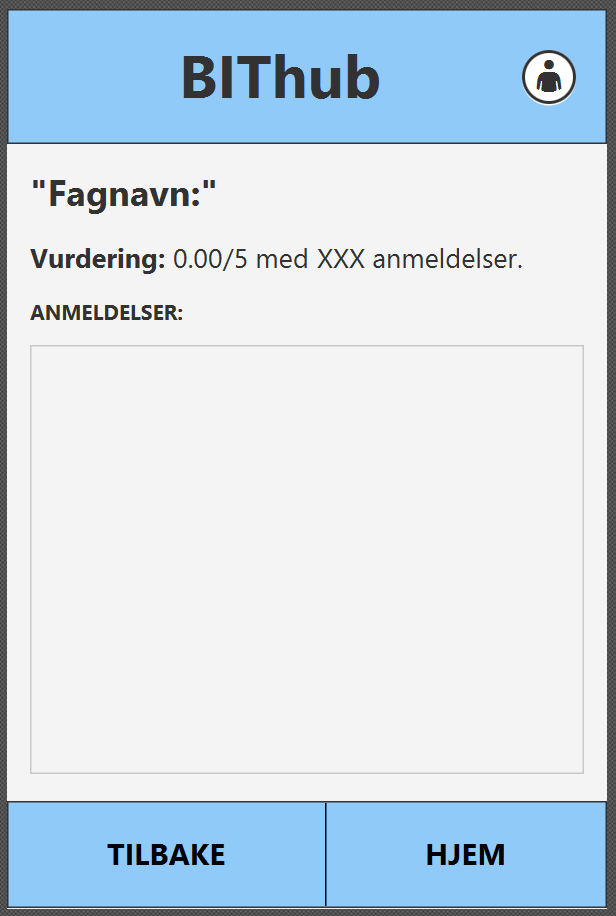
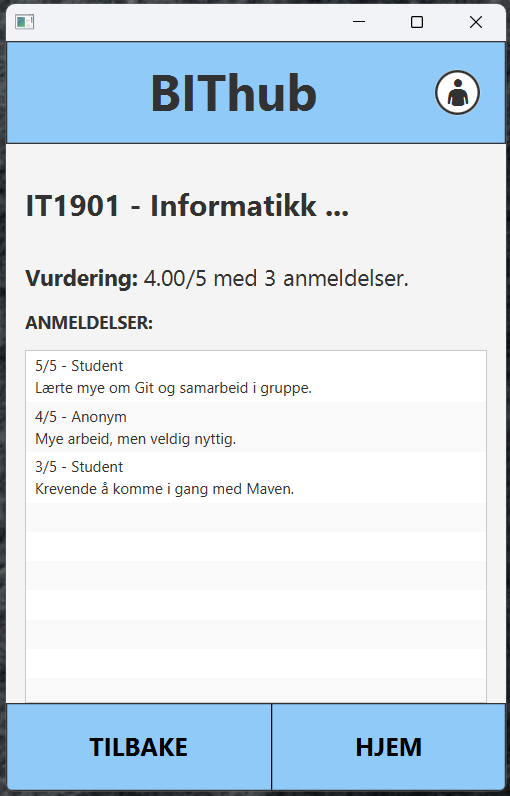
Oppdater release2.md med lesing og eksempeldata
Beskriver lesing av anmeldelser, fyller inn testdekningen og fjerner
den doble bildeseksjonen. Legger til eksempeldata med instruksjoner,
nytt bilde av lesesiden og to nye bilder tatt med eksempeldataene.

ref #121

Changed region(s): [[0.0, 0.0, 1.0, 1.0], [0.0588, 0.4523, 0.6176, 0.6332]]

diff --git a/docs/release2/release2.md b/docs/release2/release2.md
@@ -26,41 +26,34 @@ Målene våre var:
 - [x] Koble logikk til «Velg fag»-siden og hjemmesiden
 - [x] Samle navigasjonen mellom sidene i én klasse
 - [x] Lage en klasse for brukere og lagre dem til fil
+- [x] Lese anmeldelser for et emne, med gjennomsnittlig vurdering og antall anmeldelser
 - [x] Tester i alle modulene, med høy testdekning fra JaCoCo
 - [x] Checkstyle og SpotBugs som kjøres av Maven
 - [x] Skrive ned arbeidsflyt, arbeidsvaner og valg for kodekvalitet
 - [x] Dokumentere arkitekturen med et diagram
 - [ ] Innlogging og registrering i appen
-- [ ] Lese anmeldelser for et emne
 
-Vi er fornøyde med at vi fikk til arkitekturen og kodekvaliteten. Innlogging og lesing av anmeldelser rakk vi ikke. Siden oppgaven sier at alt skal være på stell før man legger til nye funksjoner, valgte vi å bruke tiden på kvalitet i stedet. Disse funksjonene tar vi med til release 3.
+Vi er fornøyde med arkitekturen og kodekvaliteten. Med lesing og skriving av anmeldelser går data nå begge veier gjennom alle tre lagene. Innlogging prioriterte vi ned, ettersom hovedmålet var å opprettholde kvalitet før eventuelt nye funksjoner legges til. 
 
 ## Funksjonalitet i release 2
 
 Dette fungerer i appen nå:
 
 - [Hjemmeside](/bithub/ui/src/main/resources/ui/Hjemmeside.fxml) med knapper til de ulike delene av appen
-- [Velg fag](/bithub/ui/src/main/resources/ui/VelgFag.fxml) med en nedtrekksliste over emner
+- [Velg fag](/bithub/ui/src/main/resources/ui/VelgFag.fxml) med en nedtrekksliste over emner. Den samme siden brukes både når man skal skrive og lese anmeldelser.
 - [Skrive anmeldelse](/bithub/ui/src/main/resources/ui/EmneView.fxml) med vurdering fra 1–5, kommentar og mulighet til å være anonym
+- [Lese anmeldelser](/bithub/ui/src/main/resources/ui/LeseAnmeldelser.fxml) for et emne, med alle anmeldelsene, gjennomsnittlig vurdering og antall anmeldelser
 - Validering i [ReviewService](/bithub/core/src/main/java/core/ReviewService.java) i domenelaget, med feilmeldinger som vises i appen
 - Anmeldelser lagres automatisk til en JSON-fil, sortert per emne
 - En [User](/bithub/core/src/main/java/core/User.java)-klasse som sjekker navn, e-post og passord, og som lagres med [UserHandler](/bithub/file/src/main/java/file/UserHandler.java)
 
-Knappene «Les anmeldelser», «Mine anmeldelser» og «Profil» åpner foreløpig bare en side der det står «Denne siden er ikke laget ennå». Brukere kan lagres til fil, men det er ikke koblet til appen ennå.
-
+Knappene «Mine anmeldelser» og «Profil» åpner foreløpig bare en side der det står «Denne siden er ikke laget ennå». Brukere kan lagres til fil, men det er ikke koblet til appen ennå.
 
 ## Bilder fra appen
 
 ### Sider i bruk
 
-Disse sidene er koblet sammen i appen. Man starter på hjemskjermen, velger fag via «Skriv anmeldelse» og kommer videre til siden for å skrive en anmeldelse.
-
-<table> <tr> <td align="center"> <b>Hjem skjerm</b><br> <img src="bilder_release2/Hjemmeside.png" alt="Hjem skjerm" height="300"> </td> <td align="center"> <b>Velg fag</b><br> <img src="bilder_release2/VelgFag.png" alt="Velg fag" height="300"> </td> <td align="center"> <b>Skrive anmeldelse</b><br> <img src="bilder_release2/EmneView.png" alt="Skrive anmeldelse" height="300"> </td> </tr> </table>
-
-
-### Sider som ikke er i bruk ennå
-
-Disse sidene er laget i FXML, men er ennå ikke koblet til navigasjonen i appen.
+Disse sidene er koblet sammen i appen. Man starter på hjemskjermen og velger fag. Via «Skriv anmeldelse» kommer man til skjemaet, og via «Les anmeldelser» kommer man til anmeldelsene for faget.
 
 <table>
   <tr>
@@ -70,15 +63,31 @@ Disse sidene er laget i FXML, men er ennå ikke koblet til navigasjonen i appen.
     </td>
     <td align="center">
       <b>Velg fag</b><br>
-      <img src="bilder_release2/VelgFag.png" alt="Velg fag" height="300">
+      <img src="bilder_release2/VelgFag.png" alt="Velg fag med IT1901 valgt" height="300">
     </td>
     <td align="center">
       <b>Skrive anmeldelse</b><br>
-      <img src="bilder_release2/EmneView.png" alt="Skrive anmeldelse" height="300">
+      <img src="bilder_release2/EmneView.png" alt="Skrive anmeldelse av IT1901" height="300">
     </td>
   </tr>
 </table>
 
+<table>
+  <tr>
+    <td align="center">
+      <b>Anmeldelsen er sendt inn</b><br>
+      <img src="bilder_release2/AnmeldelseSendt.png" alt="Anmeldelsen er sendt inn" height="300">
+    </td>
+    <td align="center">
+      <b>Lese anmeldelser</b><br>
+      <img src="bilder_release2/LeseAnmeldelser.png" alt="Anmeldelser av IT1901" height="300">
+    </td>
+    <td align="center">
+      <b>Emne uten anmeldelser</b><br>
+      <img src="bilder_release2/EmneUtenAnmeldelse.png" alt="BI2081 uten anmeldelser" height="300">
+    </td>
+  </tr>
+</table>
 
 ### Sider som ikke er i bruk ennå
 
@@ -114,13 +123,8 @@ Disse sidene er laget i FXML, men er ennå ikke koblet til navigasjonen i appen.
   </tr>
 </table>
 
-
 <table>
   <tr>
-    <td align="center">
-      <b>Lese anmeldelser</b><br>
-      <img src="bilder_release2/LeseAnmeldelser.png" alt="Lese anmeldelser" height="300">
-    </td>
     <td align="center">
       <b>Mine anmeldelser</b><br>
       <img src="bilder_release2/MineAnmeldelser.png" alt="Mine anmeldelser" height="300">
@@ -148,10 +152,11 @@ Prosjektet består av tre Maven-moduler, og hver av dem er også en Java-modul m
 
 Når brukeren trykker «SEND INN», kaller `EmneController` på `submitReview` i `ReviewService`. Der sjekkes det at det som er skrevet inn er gyldig, for eksempel at vurderingen er et tall fra 1 til 5. Er alt riktig, sendes anmeldelsen videre til et `ReviewRepository`.
 
+Når brukeren skal lese anmeldelser, går det motsatt vei. `LeseAnmeldelserController` kaller på `getCourseWithReviews` i `ReviewService`, som henter emnet med `findCourse` i `ReviewRepository`. `ReviewHandler` leser JSON-filen og gjør `CourseDTO` om til et `Course`-objekt med anmeldelsene. Har ingen anmeldt emnet ennå, får kontrolleren et tomt emne tilbake. Gjennomsnittet regnes ut av `Course` i domenelaget.
+
 `ReviewRepository` er et grensesnitt som ligger i `core`, men det er `ReviewHandler` i `file` som implementerer det. Da trenger ikke `core` å vite noe om JSON eller filer, og `core` blir ikke avhengig av `file`. Det er bare `App` som vet at vi bruker `ReviewHandler`, og den kobler det sammen når appen starter. Dette gjør det også lett å teste `ReviewService` uten ekte fillagring, og vi kan bytte ut lagringen senere, for eksempel med et REST-API.
 
-<!--Kanskje endre på?-->
-`ui` avhenger av `file` bare fordi `App` må opprette `ReviewHandler`. Resten av `ui` bruker bare `core`. Vi så på om vi kunne fjerne denne avhengigheten helt, men endte opp med å prioritere det for neste release
+`ui` avhenger av `file` bare fordi `App` må opprette `ReviewHandler`. Resten av `ui` bruker bare `core`. Vi så på om vi kunne fjerne denne avhengigheten helt, men valgte å prioritere det i neste release.
 
 ## Valg for release 2
 
@@ -160,6 +165,8 @@ I release 1 lagret vi anmeldelser i CSV med en `FileHandler` som lå i `core`. N
 Vi la grensesnittet `ReviewRepository` i `core` for at domenelaget ikke skal være avhengig av lagringen.
 
 I release 1 lå navigasjonen spredt rundt i kontrollerne. Nå har vi samlet den i klassen `Navigation`, som også sender `ReviewService` videre til sidene som trenger den.
+
+Da vi la til lesing av anmeldelser, valgte vi å bruke samme «Velg fag»-side som når man skriver. `Navigation` forteller fagvelgeren hva som skal skje når et fag er valgt: enten åpnes skjemaet for å skrive, eller siden for å lese. Slik slapp vi å lage en kopi av siden og kontrolleren.
 
 Checkstyle og SpotBugs kjøres når man kjører `mvn verify`, og JaCoCo måler testdekningen for hver modul. Mer om innstillingene står i [code-quality.md](code-quality.md).
 
@@ -171,26 +178,27 @@ Alle modulene har tester. Testene kjøres fra prosjektmappen `bithub` med `mvn t
 
 - [CourseTest](/bithub/core/src/test/java/core/CourseTest.java) og [ReviewTest](/bithub/core/src/test/java/core/ReviewTest.java) tester at emner og anmeldelser opprettes riktig og at ugyldige verdier blir avvist.
 - [UserTest](/bithub/core/src/test/java/core/UserTest.java) tester at navn, e-post og passord sjekkes riktig.
-- [ReviewServiceTest](/bithub/core/src/test/java/core/ReviewServiceTest.java) tester at gyldige anmeldelser blir lagret, at mellomrom fjernes fra input, og at tom, ugyldig eller for høy/lav vurdering blir avvist. Her bruker vi en falsk `ReviewRepository`, så testen bare tester logikken i `core`.
+- [ReviewServiceTest](/bithub/core/src/test/java/core/ReviewServiceTest.java) tester at gyldige anmeldelser blir lagret, at mellomrom fjernes fra input, og at tom, ugyldig eller for høy/lav vurdering blir avvist. Den tester også at `getCourseWithReviews` henter et emne med anmeldelser, og gir et tomt emne når ingen har anmeldt det. Her bruker vi en falsk `ReviewRepository`, så testen bare tester logikken i `core`.
 
 #### file
 
-- [ReviewHandlerTest](/bithub/file/src/test/java/file/ReviewHandlerTest.java) tester lesing og skriving av anmeldelser, at de havner på riktig emne, og hva som skjer med tomme filer og feil.
+- [ReviewHandlerTest](/bithub/file/src/test/java/file/ReviewHandlerTest.java) tester lesing og skriving av anmeldelser, at de havner på riktig emne, og hva som skjer med tomme filer og feil. Den tester også at `findCourse` finner riktig emne uansett store og små bokstaver, og gir et tomt svar for ukjente emner og når filen mangler.
 - [ReviewStorageTest](/bithub/file/src/test/java/file/ReviewStorageTest.java) tester `ReviewService` og `ReviewHandler` sammen: at en anmeldelse som sendes inn faktisk havner i filen, og at ugyldige anmeldelser ikke blir lagret.
 - [UserHandlerTest](/bithub/file/src/test/java/file/UserHandlerTest.java) tester lagring og lesing av brukere, at mapper opprettes, og hva som skjer ved ødelagt JSON og feil ved lesing/skriving.
-
-Alle testene som skriver til fil bruker `@TempDir` fra JUnit, så de skriver aldri til den ekte `~/.bithub`-mappen.
 
 #### ui
 
 - [EmneControllerTest](/bithub/ui/src/test/java/ui/EmneControllerTest.java) tester skjemaet for å skrive anmeldelse: at riktig emne vises, at feilmeldinger kommer ved ugyldig vurdering, og at anmeldelsen lagres til fil både når man er anonym og ikke.
-- [NewNavigationTest](/bithub/ui/src/test/java/ui/NewNavigationTest.java) tester at man kan gå fra hjemmesiden, velge fag, komme til skjemaet og tilbake igjen, og at sidene som ikke er laget ennå vises.
+- [LeseAnmeldelserControllerTest](/bithub/ui/src/test/java/ui/LeseAnmeldelserControllerTest.java) tester siden for å lese anmeldelser: at anmeldelsene, gjennomsnittet og antallet vises riktig, at et emne uten anmeldelser viser «Ingen anmeldelser ennå.», og at TILBAKE og HJEM går til riktig side.
+- [NewNavigationTest](/bithub/ui/src/test/java/ui/NewNavigationTest.java) tester at man kan gå fra hjemmesiden, velge fag, komme til skjemaet og tilbake igjen, og at sidene som ikke er laget ennå vises. Den har også en ende-til-ende-test som skriver en anmeldelse i appen og leser den tilbake på «Les anmeldelser»-siden, slik at alle tre lagene testes sammen.
+
+Alle testene som skriver til fil, også UI-testene, bruker `@TempDir` fra JUnit, så de skriver aldri til den ekte `~/.bithub`-mappen.
 
 | Modul | Instruksjonsdekning | Grendekning |
 | --- | --- | --- |
-| core | __ % | __ % |
-| file | __ % | __ % |
-| ui | __ % | __ % |
+| core | 100 % | 100 % |
+| file | 99 % | 92 % |
+| ui | 91 % | 81 % |
 
 Ved innlevering av release 2 gir `mvn clean verify` ingen
 Checkstyle-warnings og ingen SpotBugs-funn utover de dokumenterte
@@ -206,12 +214,12 @@ Vi har fortsatt med samme arbeidsflyt som i release 1, men denne gangen skrev vi
 
 I release 2 jobbet vi i par. Én skriver koden (driver), mens den andre følger med og kommer med innspill (navigator), og vi bytter roller underveis. Når vi har jobbet i par, skriver vi det i commit-meldingen med `Co-authored-by:`.
 
-Parprogrammering var særlig nyttig på oppgaver som gikk på tvers av modulene. Da vi skulle finne ut hvordan `core` kunne lagre anmeldelser uten å bli avhengig av `file`, hjalp det mye å kunne diskutere det med noen før vi endte opp med grensesnittet `ReviewRepository`. Det samme gjaldt fillagringen i `file`. Der diskuterte vi ulike måter å lagre dataene på, å diskutere i parr gjorde det lettere å komme fram til en løsning som også fungerer når appen skal utvides senere.
+Parprogrammering var særlig nyttig på oppgaver som gikk på tvers av modulene. Da vi skulle finne ut hvordan `core` kunne lagre anmeldelser uten å bli avhengig av `file`, hjalp det mye å kunne diskutere det med noen før vi endte opp med grensesnittet `ReviewRepository`. Det samme gjaldt fillagringen i `file`. Der diskuterte vi ulike måter å lagre dataene på, og det å jobbe i par gjorde det lettere å komme fram til en løsning som også fungerer når appen skal utvides senere.
 
 Mot slutten av release 2 oppdaget vi at `Co-authored-by` hadde
 stått over issue-referansen (`ref`/`closes`) i commit-meldingene.
-GitHub gjenkjenner bare medforfattere når linjen står helt nederst i
-meldingen, så parprogrammeringen vises ikke på GitHub, selv om
+GitLab gjenkjenner bare medforfattere når linjen står helt nederst i
+meldingen, så parprogrammeringen vises ikke på GitLab, selv om
 medforfatterne står i commit-meldingene. Vi har rettet malen i
 [workflow.md](workflow.md) og bruker riktig rekkefølge fra release 3.
 
@@ -228,3 +236,39 @@ Det tok en del tid å gå fra CSV til JSON. All fillagringen fra release 1 mått
 Det var fristende å bare la `core` bruke `ReviewHandler` direkte, men da ville domenelaget blitt avhengig av lagringen. Løsningen ble å lage grensesnittet `ReviewRepository`.
 
 Når forskjellige par jobbet på domenelaget, lagringen og brukergrensesnittet samtidig, måtte vi bli enige tidlig om hvordan delene skulle snakke sammen. Noen oppgaver ble forsinket fordi de var avhengige av noe som ikke var ferdig ennå, og vi ble etter hvert flinkere til å avklare dette før vi begynte å kode.
+
+
+## Eksempeldata
+
+I [eksempeldata/courses.json](eksempeldata/courses.json) ligger en fil med anmeldelser av tre emner. Den kan brukes til å prøve appen uten å skrive inn alt selv:
+
+| Emne | Anmeldelser | Gjennomsnitt |
+| --- | --- | --- |
+| IT1901 Informatikk prosjektarbeid I | 3 | 4.00 |
+| IT1604 Digitalt samfunn | 2 | 3.50 |
+| EXPH0300 Examen philosophicum | 1 | 2.00 |
+| BI2081 og HMS0002 | 0 | – |
+
+Appen leser og skriver alltid til `courses.json` i mappen `.bithub` i hjemmemappen din. For å bruke eksempeldataene kopierer du filen dit før du starter appen. Har du allerede en `courses.json` der, ta en kopi av den først, for den blir overskrevet.
+
+Fra rotmappen i repoet, på macOS og Linux:
+
+```bash
+mkdir -p ~/.bithub
+cp docs/release2/eksempeldata/courses.json ~/.bithub/courses.json
+```
+
+På Windows (PowerShell):
+
+```powershell
+cd C:\sti\til\gr2610
+New-Item -ItemType Directory -Force "$HOME\.bithub"
+Copy-Item docs\release2\eksempeldata\courses.json "$HOME\.bithub\courses.json"
+```
+
+Start så appen som beskrevet i [README](/README.md). Bildene under er tatt med disse dataene, og du kan gjenskape dem slik:
+
+1. Trykk «SKRIV ANMELDELSE», velg IT1901 og trykk «GÅ VIDERE».
+2. Gi vurdering 4, skriv «Gode tilbakemeldinger fra læringsassistentene.», kryss av for anonym og trykk «SEND INN».
+3. Trykk «HJEM», så «LES ANMELDELSER», og velg IT1901. Nå vises fire anmeldelser med gjennomsnitt 4.00.
+4. Trykk «TILBAKE» og velg BI2081. Den har ingen anmeldelser ennå.
